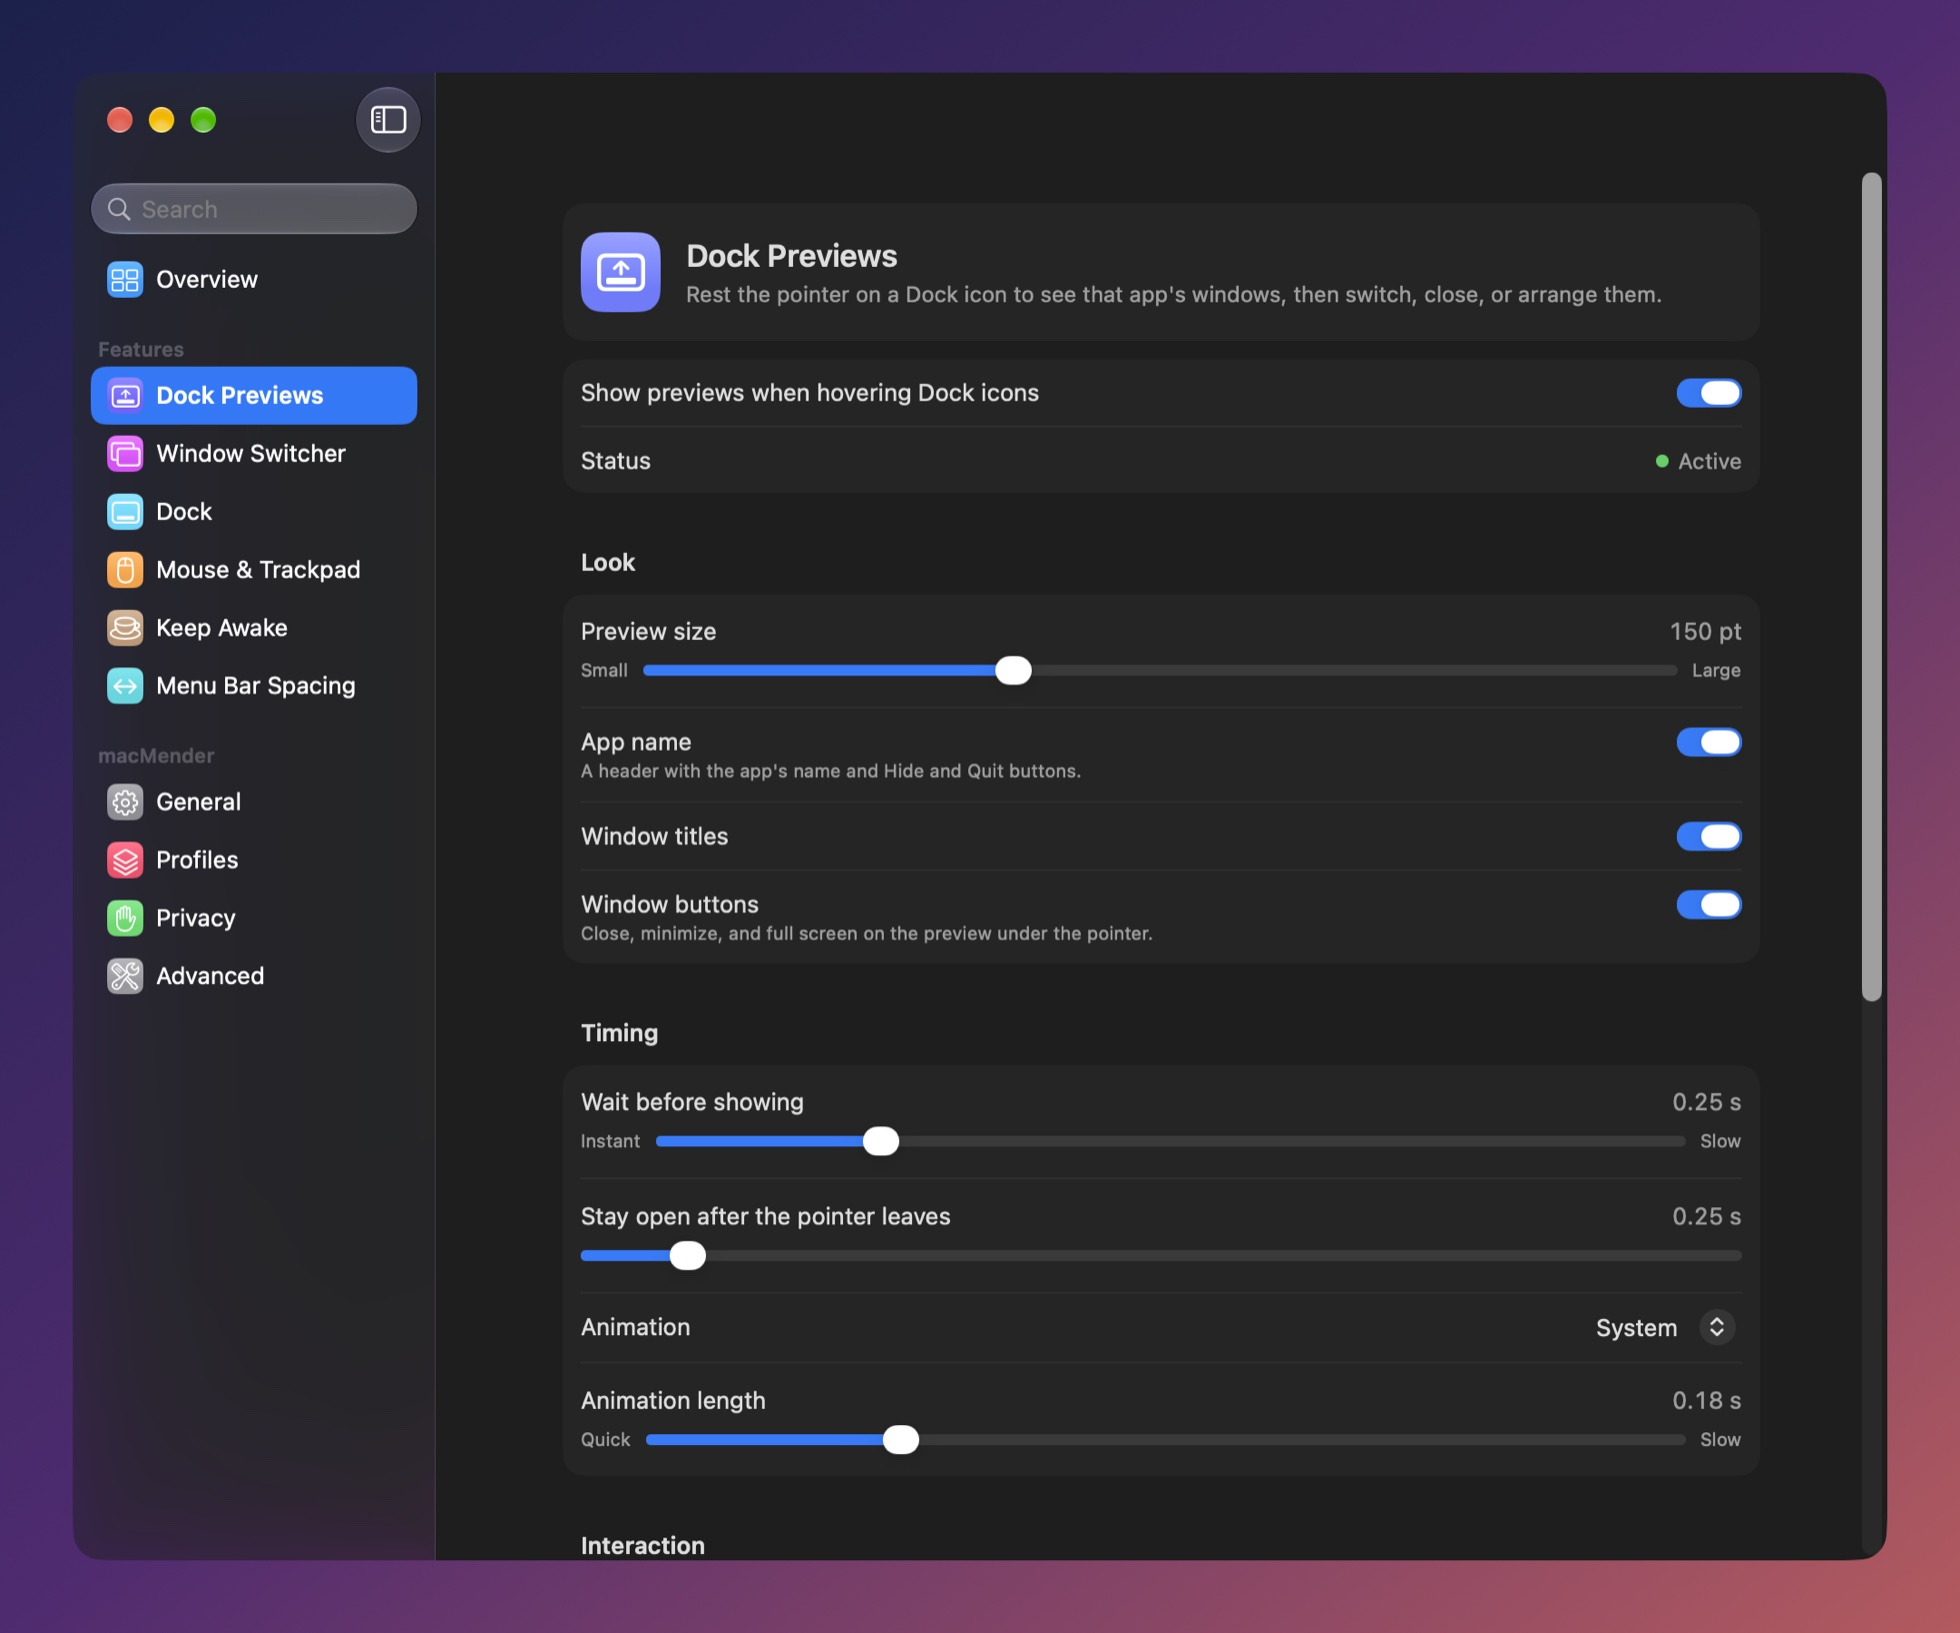
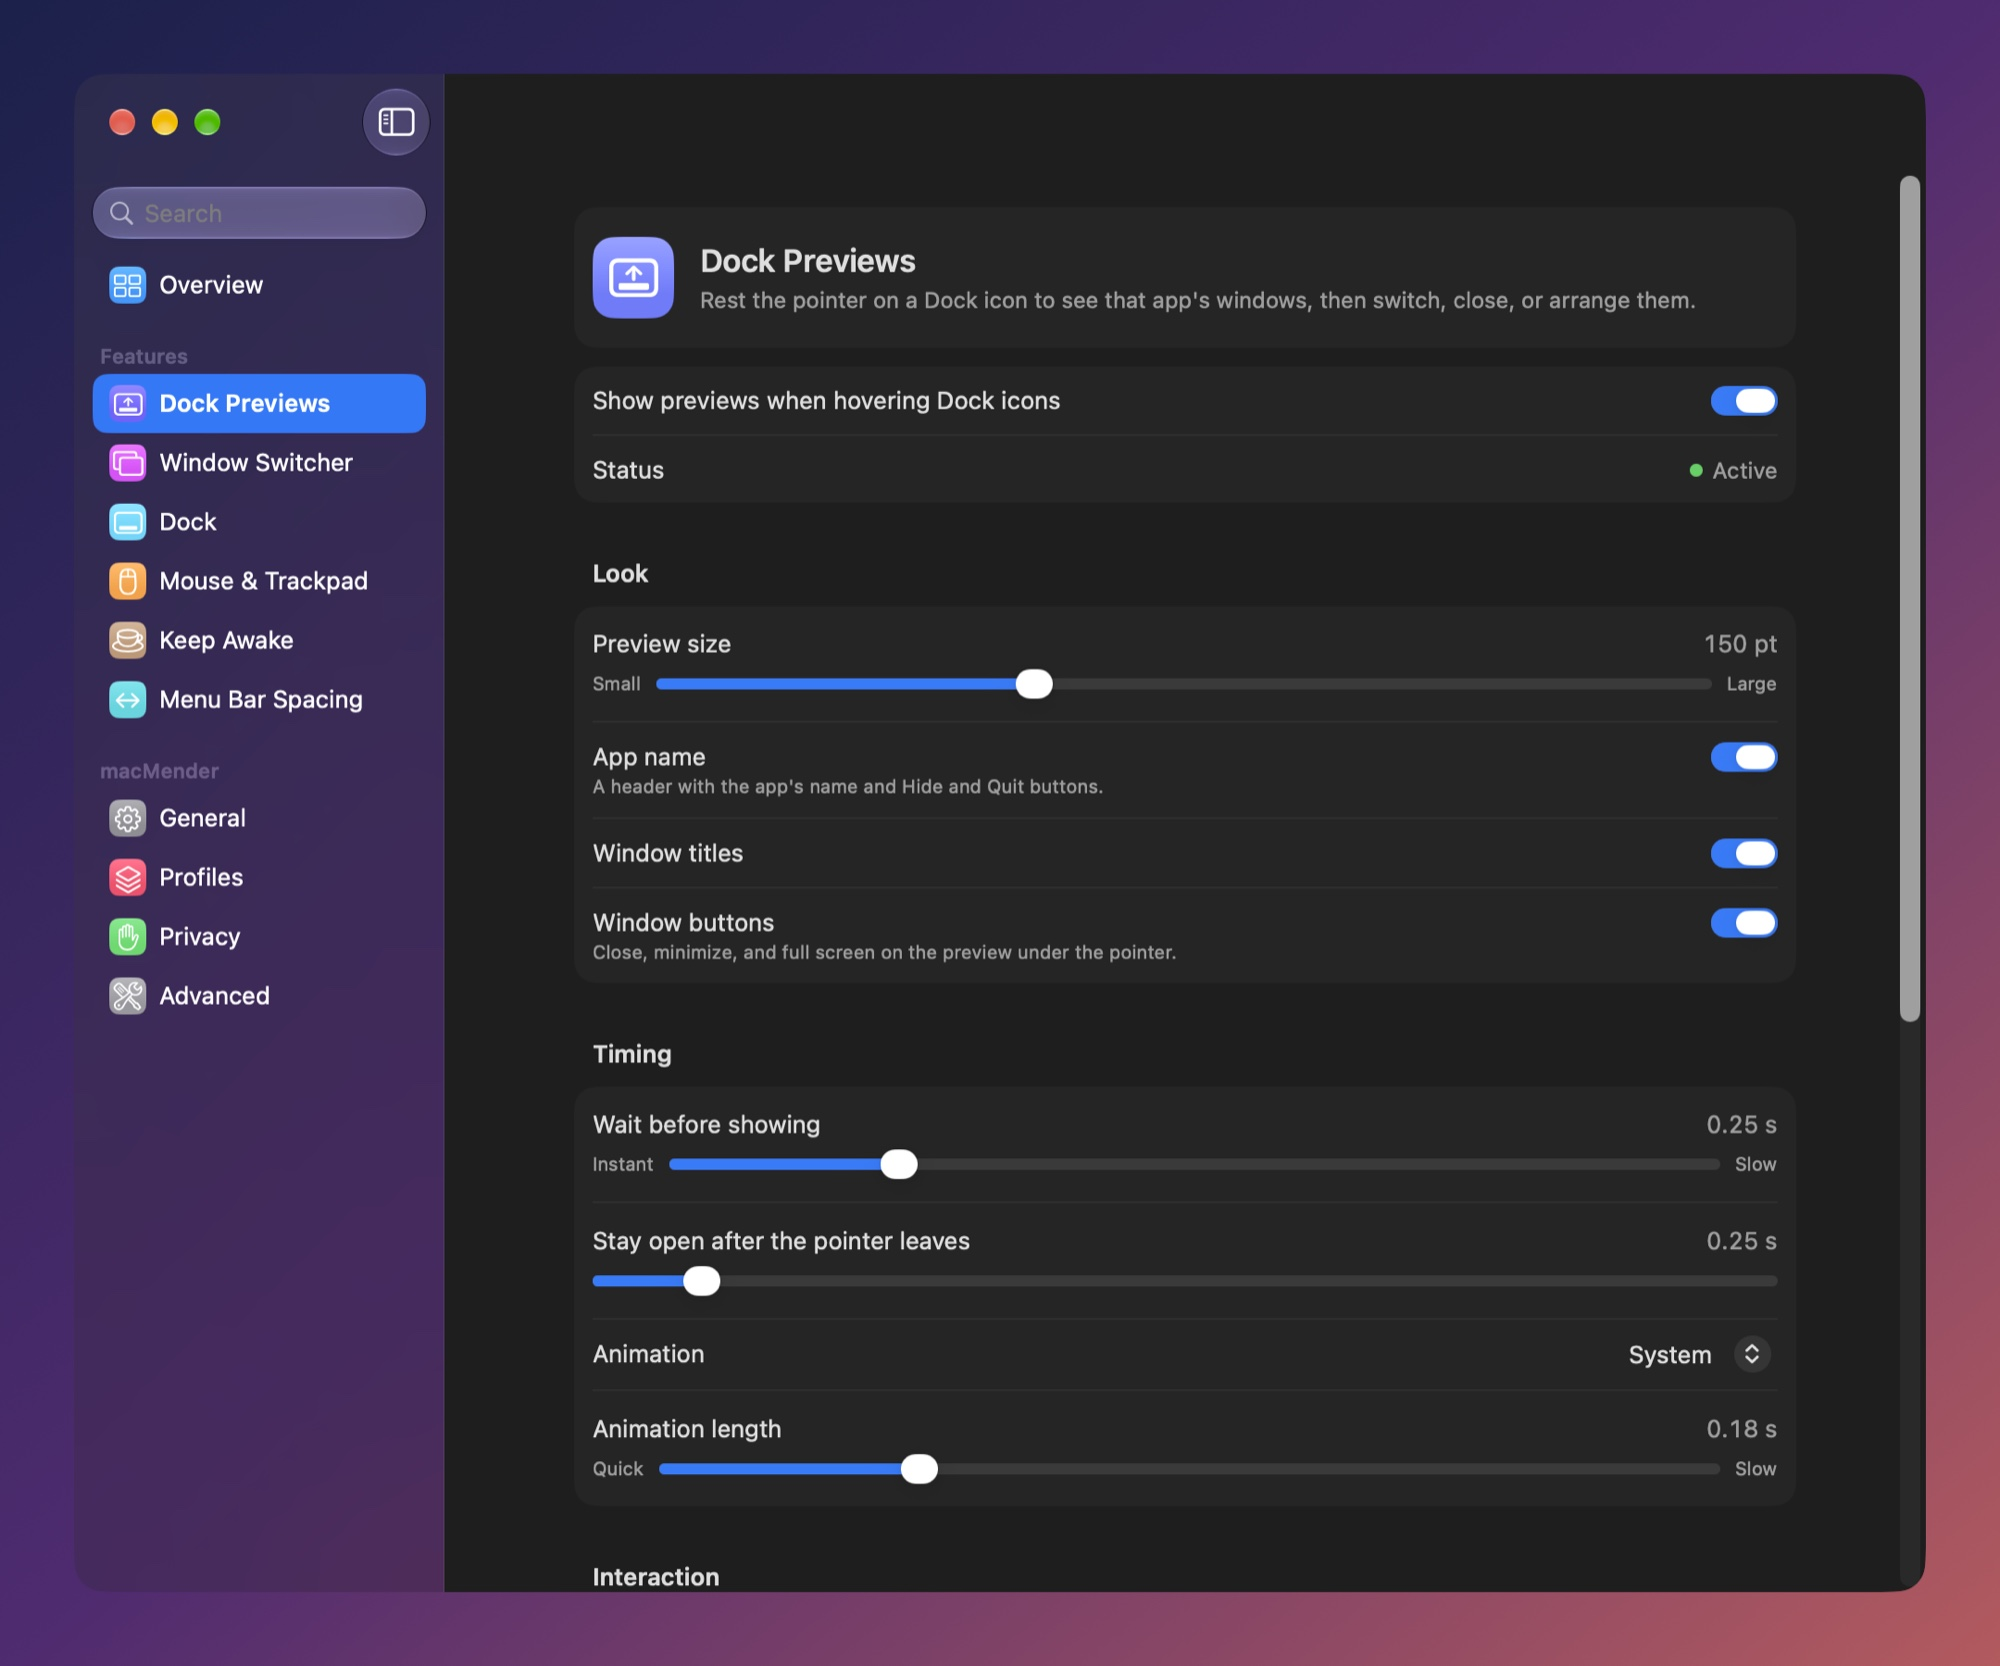
README: real screenshots of the frosted sidebar, clearer structure

Changed region(s): [[0.0311, 0.0312, 0.249, 0.9682]]

diff --git a/Sources/macMender/Services/DockPreviewController.swift b/Sources/macMender/Services/DockPreviewController.swift
@@ -1129,10 +1129,13 @@ extension DockPreviewController {
         configuration.width = Int(rect.width * screen.backingScaleFactor)
         configuration.height = Int(rect.height * screen.backingScaleFactor)
         configuration.showsCursor = false
-        return try? await SCScreenshotManager.captureImage(
-            contentFilter: SCContentFilter(display: display, including: [application], exceptingWindows: []),
-            configuration: configuration
-        )
+        // Blur of what is behind a window only exists in the real composite. Capturing that
+        // shows whatever is on top of this app's windows too, so it is opt-in and the result
+        // must be looked at before it is used anywhere.
+        let filter = ProcessInfo.processInfo.environment["MACMENDER_SNAPSHOT_COMPOSITED"] != nil
+            ? SCContentFilter(display: display, excludingWindows: [])
+            : SCContentFilter(display: display, including: [application], exceptingWindows: [])
+        return try? await SCScreenshotManager.captureImage(contentFilter: filter, configuration: configuration)
     }
 }
 #endif

diff --git a/README.md b/README.md
@@ -16,6 +16,7 @@
 <p align="center">
   <a href="https://github.com/0hmslice/macMender/releases/latest"><strong>Download</strong></a> ·
   <a href="#get-started">Get started</a> ·
+  <a href="#what-it-does">Features</a> ·
   <a href="#at-your-fingertips">Shortcuts</a> ·
   <a href="#build-it">Build it</a> ·
   <a href="https://github.com/0hmslice/macMender/issues">Report an issue</a>
@@ -30,7 +31,19 @@
 
 <p align="center">Free, open source, and local. No accounts, no analytics, no subscriptions.</p>
 
-> **New in v0.20.0 — the biggest update yet.** Rebuilt Dock previews, a redesigned settings window, new onboarding, and Control Center–style quick controls, in Apple's Liquid Glass on macOS 26 and later. [Download the preview release](https://github.com/0hmslice/macMender/releases/tag/v0.20.0).
+> [!NOTE]
+> **New in v0.20.0, the biggest update yet.** Rebuilt Dock previews, a redesigned settings window, new onboarding, and Control Center–style quick controls, in Apple's Liquid Glass on macOS 26 and later. [Download it](https://github.com/0hmslice/macMender/releases/tag/v0.20.0) or read [what changed](https://github.com/0hmslice/macMender/releases/tag/v0.20.0).
+
+## What it does
+
+| | |
+| :-- | :-- |
+| **[Dock previews](#dock-previews)** | Hover a Dock icon to see every window that app has open, then switch, close, peek, or arrange. |
+| **[Window switcher](#window-switcher-and-scrolling)** | **⌥ Tab** between individual windows, not just apps. |
+| **[Better scrolling](#window-switcher-and-scrolling)** | Smooth a wheel mouse, and scroll a mouse and a trackpad in different directions. |
+| **Middle click** | Three-finger tap on the trackpad to open links in new tabs and close tabs. |
+| **Keep Awake** | Stop your Mac sleeping for 15 minutes to 2 hours, or until you say so. |
+| **[Quick controls](#quick-controls-and-setup)** | Turn any of it on or off from the menu bar. |
 
 ## Dock previews
 
@@ -44,45 +57,35 @@ Rest the pointer on a Dock icon and macMender shows that app's windows, live.
 | **Arrange** | Right-click a preview for Left Half, Right Half, Fill Screen, Center, or Move to Next Display. |
 | **Drag and drop** | Drag a file onto a Dock icon, then rest it on a preview to bring that window forward and drop into it. |
 | **Keyboard** | With the pointer over a preview: arrow keys select, Return opens, **⌘ W** closes, Escape dismisses. |
-| **Yours to tune** | Preview size, hover delay, titles, buttons, and a list of apps that should never show previews. |
+| **Yours to tune** | Preview size, timing, titles, buttons, and a list of apps that should never show previews. |
 
 <p align="center">
-  <img src=".github/assets/v0.20.0/dock-previews.jpg" width="760" alt="The Dock Previews settings page: a switch, status, preview size, and timing sliders">
+  <img src=".github/assets/v0.20.0/dock-previews.jpg" width="820" alt="The Dock Previews settings page: a switch, status, preview size, and timing sliders">
 </p>
 
-## Everything else
-
-| | What you get |
-| :-- | :-- |
-| **Window switching** | **⌥ Tab** through windows with thumbnails, including windows on other Spaces. Add Shift to go backwards. |
-| **Scrolling** | Tune mouse smoothing and direction. Give individual apps their own rules, or leave their scrolling native. |
-| **Middle click** | Use a three-finger trackpad tap, modifier-click, or an extra mouse button. |
-| **Keep Awake** | Start a 15-minute to 2-hour session, or keep going until stopped. Optionally keep the display awake. |
-| **Profiles & quick controls** | Save different setups, search settings, and pause everything from the menu bar. |
-
-## Settings that make sense
-
-One window, one layout, and a page for each feature. The Overview shows what is running and lets you switch features on and off without hunting for them.
-
-On macOS 26 and later the app uses Apple's Liquid Glass for its switches, sliders, toolbar, and menu bar dropdown, with a frosted sidebar that shows what is behind the window.
-
-<p align="center">
-  <img src=".github/assets/v0.20.0/overview.jpg" width="760" alt="The Overview page: each feature with its status and a switch">
-</p>
+## Window switcher and scrolling
 
 <table>
   <tr>
-    <td width="50%"><img src=".github/assets/v0.20.0/mouse-trackpad.jpg" alt="Mouse and Trackpad settings with smoothing sliders and a response preview"><br><strong>Scrolling, your way</strong></td>
-    <td width="50%"><img src=".github/assets/v0.20.0/window-switcher.jpg" alt="Window Switcher settings with shortcut, layout, and thumbnail size"><br><strong>Switch windows, not just apps</strong></td>
+    <td width="50%" valign="top"><img src=".github/assets/v0.20.0/window-switcher.jpg" alt="Window Switcher settings with shortcut, layout, and thumbnail size"><br><strong>Switch windows, not just apps</strong><br>Hold <strong>⌥</strong> and press Tab to move through windows with thumbnails, including ones on other Spaces. Add Shift to go backwards.</td>
+    <td width="50%" valign="top"><img src=".github/assets/v0.20.0/mouse-trackpad.jpg" alt="Mouse and Trackpad settings with smoothing sliders and a response preview"><br><strong>Scrolling, your way</strong><br>Give a wheel mouse the glide of a trackpad, reverse direction per device, and set exceptions for individual apps.</td>
   </tr>
 </table>
+
+## Settings that make sense
+
+One window, one layout, and a page for each feature. The Overview shows what is running and lets you switch features on and off without hunting for them. On macOS 26 and later it uses Apple's Liquid Glass, with a frosted sidebar that shows what is behind the window.
+
+<p align="center">
+  <img src=".github/assets/v0.20.0/overview.jpg" width="820" alt="The Overview page: each feature with its status and a switch">
+</p>
 
 ## Quick controls and setup
 
 <table>
   <tr>
-    <td width="42%"><img src=".github/assets/v0.20.0/quick-controls.png" alt="The menu bar dropdown: tiles for Dock Previews, Window Switcher, Three-Finger Tap and Reverse Wheel, with Keep Awake and Pause"><br><strong>Everything one click away</strong><br>Click the menu bar icon to turn features on and off, start Keep Awake, or pause macMender.</td>
-    <td width="58%"><img src=".github/assets/v0.20.0/onboarding.jpg" alt="The setup screen for choosing which features to turn on"><br><strong>Set up in a minute</strong><br>Pick the features you want, allow access, and you are done.</td>
+    <td width="42%" valign="top"><img src=".github/assets/v0.20.0/quick-controls.png" alt="The menu bar dropdown: tiles for Dock Previews, Window Switcher, Three-Finger Tap and Reverse Wheel, with Keep Awake and Pause"><br><strong>Everything one click away</strong><br>Click the menu bar icon to turn features on and off, start Keep Awake, or pause macMender.</td>
+    <td width="58%" valign="top"><img src=".github/assets/v0.20.0/onboarding.jpg" alt="The setup screen for choosing which features to turn on"><br><strong>Set up in a minute</strong><br>Pick the features you want, allow access, and you are done.</td>
   </tr>
 </table>
 
@@ -101,7 +104,7 @@ The app is about 5 MB and uses roughly 60 MB of memory.
 
 ## Get started
 
-**Release requirements:** Apple silicon · macOS 26 or newer.
+**Requirements:** Apple silicon · macOS 26 or newer.
 
 The preview is signed with an Apple Development certificate and **is not notarized**. macOS may require explicit approval when opening it.
 
@@ -166,7 +169,7 @@ The package declares macOS 14 as its compilation minimum; that is not a claim of
 - **Input or shortcuts:** check Accessibility permission, then quit and reopen macMender. Pause similar utilities while troubleshooting conflicting rules.
 - **Missing thumbnails:** grant Screen Recording, or use the switcher without thumbnails.
 - **Unexpected scrolling in one app:** add it under Mouse & Trackpad → App Exceptions and choose to scroll the way macOS does.
-- **Need to undo a setup:** pause macMender immediately; restore exported settings from Advanced. Menu bar spacing has its own Reset to Default.
+- **Need to undo a setup:** pause macMender immediately; restore exported settings from Advanced. Menu bar spacing has its own Use macOS Default button.
 - **Reporting a bug:** include your macOS version, macMender version, and steps to reproduce. Review diagnostic exports before sharing them.
 
 </details>
